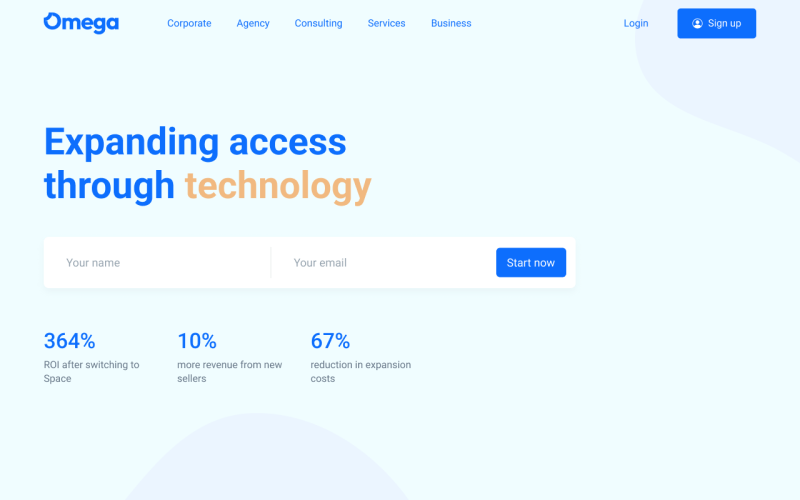
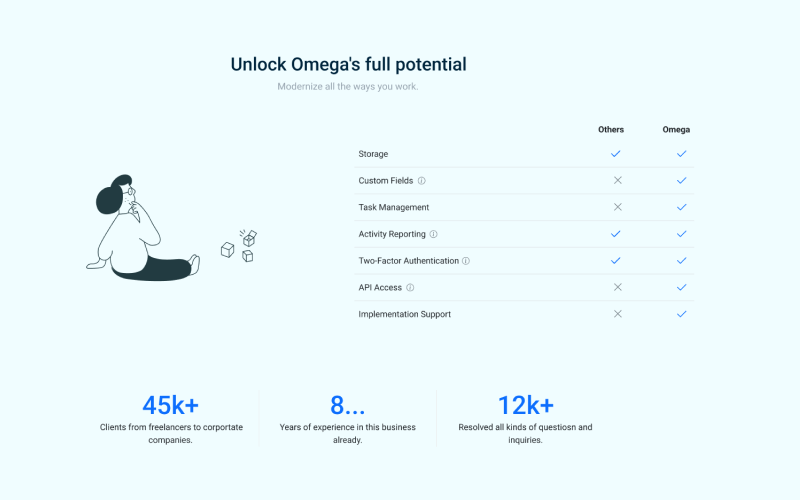
Copywrite, images, and code fixes

diff --git a/src/pages/Corporate.js b/src/pages/Corporate.js
@@ -3,6 +3,7 @@ import { HeaderLight } from '../components/Header';
 import { JoinCard, AccordionCard } from '../components/Cards';
 import { FeaturesTabs } from '../components/NavTabs';
 import { FeaturesTable } from '../components/Tables';
+import { Reviews } from '../components/Reviews';
 
 function Corporate() {
     return(
@@ -15,15 +16,15 @@ function Corporate() {
                         <div className="row justify-content-center align-items-lg-center">
                             <div className="col-md-8 col-lg-6 mb-7 mb-lg-0">
                                 <div className="pe-lg-3 mb-5">
-                                    <h1 className="fw-600 text-white mb-2 mb-md-3">Helping startups find solutions.</h1>
+                                    <h1 className="fw-600 text-white mb-2 mb-md-3">We help bring your business to the audience.</h1>
 
                                     <p className="text-lg text-gray-300">
-                                        Built on standard web technology, teams use Omega to build responsive web applications in record time.
+                                        At Omega, we are dedicated to help businesses scale by using our indepth market research and analysis.
                                     </p>
                                 </div>
 
                                 <div className="row">
-                                    <div className="col-sm-6 mb-3 mb-sm-0">
+                                    <div className="col-sm-4 mb-3 mb-sm-0">
                                         <div className="d-flex align-items-center">
                                             <div className="flex-shrink-0">
                                                 <span className="svg-icon text-white">
@@ -41,7 +42,7 @@ function Corporate() {
                                         </div>
                                     </div>
 
-                                    <div className="col-sm-6">
+                                    <div className="col-sm-4">
                                         <div className="d-flex align-items-center">
                                             <div className="flex-shrink-0">
                                                 <span className="svg-icon text-white">
@@ -53,8 +54,26 @@ function Corporate() {
                                             </div>
 
                                             <div className="flex-grow-1 ms-4">
-                                                <h6 className="text-white mb-0">92%</h6>
+                                                <h6 className="text-white mb-0">99%</h6>
                                                 <p className="text-gray-300">Satisfaction rate</p>
+                                            </div>
+                                        </div>
+                                    </div>
+
+                                    <div className="col-sm-4">
+                                        <div className="d-flex align-items-center">
+                                            <div className="flex-shrink-0">
+                                                <span className="svg-icon text-white">
+                                                    <svg width="50" height="50" viewBox="0 0 24 24" fill="none" xmlns="http://www.w3.org/2000/svg">
+                                                        <path d="M15.43 8.56949L10.744 15.1395C10.6422 15.282 10.5804 15.4492 10.5651 15.6236C10.5498 15.7981 10.5815 15.9734 10.657 16.1315L13.194 21.4425C13.2737 21.6097 13.3991 21.751 13.5557 21.8499C13.7123 21.9488 13.8938 22.0014 14.079 22.0015H14.117C14.3087 21.9941 14.4941 21.9307 14.6502 21.8191C14.8062 21.7075 14.9261 21.5526 14.995 21.3735L21.933 3.33649C22.0011 3.15918 22.0164 2.96594 21.977 2.78013C21.9376 2.59432 21.8452 2.4239 21.711 2.28949L15.43 8.56949Z" fill="#FFFFFF" />
+                                                        <path opacity="0.3" d="M20.664 2.06648L2.62602 9.00148C2.44768 9.07085 2.29348 9.19082 2.1824 9.34663C2.07131 9.50244 2.00818 9.68731 2.00074 9.87853C1.99331 10.0697 2.04189 10.259 2.14054 10.4229C2.23919 10.5869 2.38359 10.7185 2.55601 10.8015L7.86601 13.3365C8.02383 13.4126 8.19925 13.4448 8.37382 13.4297C8.54839 13.4145 8.71565 13.3526 8.85801 13.2505L15.43 8.56548L21.711 2.28448C21.5762 2.15096 21.4055 2.05932 21.2198 2.02064C21.034 1.98196 20.8409 1.99788 20.664 2.06648V2.06648Z" fill="#FFFFFF" />
+                                                    </svg>
+                                                </span>
+                                            </div>
+
+                                            <div className="flex-grow-1 ms-4">
+                                                <h6 className="text-white mb-0">On-demand</h6>
+                                                <p className="text-gray-300">Data analytics</p>
                                             </div>
                                         </div>
                                     </div>
@@ -70,58 +89,16 @@ function Corporate() {
                         <div className="my-90 border-top border-white-10"></div>
 
                         <div className="row">
-                            <div className="col-sm mb-5 mb-sm-0">
-                                <div className="d-flex gap-1 mb-2">
-                                    <i className="bi bi-star-fill text-warning"></i>
-                                    <i className="bi bi-star-fill text-warning"></i>
-                                    <i className="bi bi-star-fill text-warning"></i>
-                                    <i className="bi bi-star-fill text-warning"></i>
-                                    <i className="bi bi-star-half text-warning"></i>
-                                </div>
+                            <Reviews.Header.AirBnb />
 
-                                <blockquote className="blockquote blockquote-sm text-white mb-4">
-                                    <i className="bi bi-quote superscript"></i> This is a beautiful template with exciting components. <i className="bi bi-quote superscript flip-180"></i>
-                                </blockquote>
+                            <Reviews.Header.Amazon />
 
-                                <img className="" src="https://htmlstream.com/preview/space-v2.3.1/assets/svg/brands/airbnb-white-50.svg" alt="Company" />
-                            </div>
-
-                            <div className="col-sm mb-5 mb-sm-0">
-                                <div className="d-flex gap-1 mb-2">
-                                    <i className="bi bi-star-fill text-warning"></i>
-                                    <i className="bi bi-star-fill text-warning"></i>
-                                    <i className="bi bi-star-fill text-warning"></i>
-                                    <i className="bi bi-star-fill text-warning"></i>
-                                    <i className="bi bi-star-fill text-warning"></i>
-                                </div>
-
-                                <blockquote className="blockquote blockquote-sm text-white mb-4">
-                                    <i className="bi bi-quote superscript"></i> This is a beautiful template with exciting components. <i className="bi bi-quote superscript flip-180"></i>
-                                </blockquote>
-
-                                <img className="" src="https://htmlstream.com/preview/space-v2.3.1/assets/svg/brands/amazon-white-50.svg" alt="Company" />
-                            </div>
-
-                            <div className="col-sm mb-5 mb-sm-0">
-                                <div className="d-flex gap-1 mb-2">
-                                    <i className="bi bi-star-fill text-warning"></i>
-                                    <i className="bi bi-star-fill text-warning"></i>
-                                    <i className="bi bi-star-fill text-warning"></i>
-                                    <i className="bi bi-star-fill text-warning"></i>
-                                    <i className="bi bi-star-half text-warning"></i>
-                                </div>
-
-                                <blockquote className="blockquote blockquote-sm text-white mb-4">
-                                    <i className="bi bi-quote superscript"></i> This is a beautiful template with exciting components. <i className="bi bi-quote superscript flip-180"></i>
-                                </blockquote>
-
-                                <img className="" src="https://htmlstream.com/preview/space-v2.3.1/assets/svg/brands/google-white-50.svg" alt="Company" />
-                            </div>
+                            <Reviews.Header.Google />
                         </div>
                     </div>
                 </section>
 
-                <section className="features-section">
+                <section className="features-section bg-white">
                     <div className="container">
                         <div className="w-lg-65 mx-lg-auto mb-5 text-center">
                             <h3 className="mb-2">Take the best path forward</h3>
@@ -134,11 +111,11 @@ function Corporate() {
                     </div>
                 </section>
 
-                <section className="features-cont">
+                <section className="features-cont bg-white">
                     <div className="position-relative mb-5">
                         <div className="container">
                             <div className="row justify-content-end align-items-md-center">
-                                <div className="d-none d-md-block col-md-6 position-absolute top-0 start-0 bg-img-cover-center h-100" style={{backgroundImage: "url('https://htmlstream.com/preview/space-v2.3.1/assets/img/900x700/img7.jpg')"}}></div>
+                                <div className="d-none d-md-block col-md-6 position-absolute top-0 start-0 bg-img-cover-center h-100" style={{backgroundImage: "url('https://images.unsplash.com/photo-1556761175-b413da4baf72?ixlib=rb-4.0.3&ixid=MnwxMjA3fDB8MHxwaG90by1wYWdlfHx8fGVufDB8fHx8&auto=format&fit=crop&w=1074&q=80')"}}></div>
                                 <div className="d-md-none mb-5 mb-md-0">
                                     <img className="img-fluid" src="https://htmlstream.com/preview/space-v2.3.1/assets/img/900x700/img7.jpg" alt="Agency" />
                                 </div>
@@ -283,22 +260,22 @@ function Corporate() {
                             <div className="row col-sm-divider">
                                 <div className="col-sm-4 px-4 px-xs-0">
                                     <div className="text-center">
-                                        <h3 className="text-primary heading-3">45k+</h3>
-                                        <p className="mb-0">Clients from freelancers to corportate companies.</p>
+                                        <h3 className="text-primary heading-3">100+</h3>
+                                        <p className="mb-0">Templates developed, analyzed, and successfully launched.</p>
                                     </div>
                                 </div>
 
                                 <div className="col-sm-4 px-4 px-xs-0">
                                     <div className="text-center">
-                                        <h3 className="text-primary heading-3">8...</h3>
-                                        <p className="mb-0">Years of experience in this business already.</p>
+                                        <h3 className="text-primary heading-3">...4</h3>
+                                        <p className="mb-0">Years of experience and counting of helping businesses scale and grow.</p>
                                     </div>
                                 </div>
 
                                 <div className="col-sm-4 px-4 px-xs-0">
                                     <div className="text-center">
-                                        <h3 className="text-primary heading-3">12k+</h3>
-                                        <p className="mb-0">Resolved all kinds of questiosn and inquiries.</p>
+                                        <h3 className="text-primary heading-3">11k+</h3>
+                                        <p className="mb-0">Questions, inquiries, and client worries taken care of so far.</p>
                                     </div>
                                 </div>
                             </div>
@@ -306,7 +283,7 @@ function Corporate() {
                     </div>
                 </section>
 
-                <section className="">
+                <section className="faq-section">
                     <div className="container">
                         <div className="w-lg-65 mx-lg-auto mb-5 text-center">
                             <h3 className="mb-2">All about Omega</h3>

diff --git a/src/components/Reviews.js b/src/components/Reviews.js
@@ -1,0 +1,61 @@
+export const Reviews = {
+    'Header': {
+        'AirBnb': function Airbnb() {
+            return (
+                <div className="col-sm mb-5 mb-sm-0">
+                    <div className="d-flex gap-1 mb-2">
+                        <i className="bi bi-star-fill text-warning"></i>
+                        <i className="bi bi-star-fill text-warning"></i>
+                        <i className="bi bi-star-fill text-warning"></i>
+                        <i className="bi bi-star-fill text-warning"></i>
+                        <i className="bi bi-star-half text-warning"></i>
+                    </div>
+
+                    <blockquote className="blockquote blockquote-sm text-white mb-4">
+                        <i className="bi bi-quote superscript"></i> Thanks to Omega, our brand reach skyrocketed instantly. <i className="bi bi-quote superscript flip-180"></i>
+                    </blockquote>
+
+                    <img className="" src="https://htmlstream.com/preview/space-v2.3.1/assets/svg/brands/airbnb-white-50.svg" alt="Company" />
+                </div>
+            );
+        },
+        'Amazon': function Airbnb() {
+            return (
+                <div className="col-sm mb-5 mb-sm-0">
+                    <div className="d-flex gap-1 mb-2">
+                        <i className="bi bi-star-fill text-warning"></i>
+                        <i className="bi bi-star-fill text-warning"></i>
+                        <i className="bi bi-star-fill text-warning"></i>
+                        <i className="bi bi-star-fill text-warning"></i>
+                        <i className="bi bi-star-fill text-warning"></i>
+                    </div>
+
+                    <blockquote className="blockquote blockquote-sm text-white mb-4">
+                        <i className="bi bi-quote superscript"></i> Omega boosted our sales tremendously, they are phenomenal. <i className="bi bi-quote superscript flip-180"></i>
+                    </blockquote>
+
+                    <img className="" src="https://htmlstream.com/preview/space-v2.3.1/assets/svg/brands/amazon-white-50.svg" alt="Company" />
+                </div>
+            );
+        },
+        'Google': function Amazon() {
+            return(
+                <div className="col-sm mb-5 mb-sm-0">
+                    <div className="d-flex gap-1 mb-2">
+                        <i className="bi bi-star-fill text-warning"></i>
+                        <i className="bi bi-star-fill text-warning"></i>
+                        <i className="bi bi-star-fill text-warning"></i>
+                        <i className="bi bi-star-fill text-warning"></i>
+                        <i className="bi bi-star-half text-warning"></i>
+                    </div>
+
+                    <blockquote className="blockquote blockquote-sm text-white mb-4">
+                        <i className="bi bi-quote superscript"></i> Scaling up was a breeze thanks to Omega and their many tools. <i className="bi bi-quote superscript flip-180"></i>
+                    </blockquote>
+
+                    <img className="" src="https://htmlstream.com/preview/space-v2.3.1/assets/svg/brands/google-white-50.svg" alt="Company" />
+                </div>
+            );
+        }
+    }
+}

diff --git a/src/components/Forms.js b/src/components/Forms.js
@@ -3,9 +3,19 @@ import { Link } from 'react-router-dom';
 export function JoinForm() {
     return(
         <form id="joinForm" className="form">
-            <div className="mb-4">
-                <label htmlFor="name" className="form-label">Your name</label>
-                <input className="form-control form-control-lg" type="text" name="name" id="name" placeholder="Enter your name" aria-label="Enter your name" required data-msg="Please enter your name" />
+            <div className="row">
+                <div className="col-sm-6">
+                    <div className="mb-4">
+                        <label htmlFor="name" className="form-label">First name</label>
+                        <input className="form-control form-control-lg" type="text" name="name" id="name" placeholder="John" aria-label="Enter your name" required data-msg="Please enter your name" />
+                    </div>
+                </div>
+                <div className="col-sm-6">
+                    <div className="mb-4">
+                        <label htmlFor="name" className="form-label">Last name</label>
+                        <input className="form-control form-control-lg" type="text" name="name" id="name" placeholder="Doe" aria-label="Enter your name" required data-msg="Please enter your name" />
+                    </div>
+                </div>
             </div>
 
             <div className="mb-4">

diff --git a/src/components/Cards.js b/src/components/Cards.js
@@ -13,7 +13,7 @@ export function JoinCard() {
 
                     <div className="col-sm">
                         <h5 className="card-title">Join Omega</h5>
-                        <p className="card-text">Hundreds of companies are using Omega to get their brands running.</p>
+                        <p className="card-text">Many companies are using Omega to get their brands at the forefront.</p>
                     </div>
                 </div>
 

diff --git a/src/sass/3-components/_accordions.scss b/src/sass/3-components/_accordions.scss
@@ -22,6 +22,12 @@
                 }
             }
         }
+        .accordion-collapse {
+            .accordion-body {
+                padding-left: 32px;
+                padding-right: 32px;
+            }
+        }
         &:first-child {
             border-top: 0;
         }

diff --git a/src/sass/2-base/_backgrounds.scss b/src/sass/2-base/_backgrounds.scss
@@ -4,3 +4,6 @@
 .bg-primary-dark {
     background: $oxford!important;
 }
+.bg-white {
+    background-color: $white!important;
+}

diff --git a/CHANGELOG.md b/CHANGELOG.md
@@ -7,6 +7,26 @@ and this project adheres to [Semantic Versioning](https://semver.org/spec/v2.0.0
 
 ## [Unreleased]
 
+## [1.2.0] - 2023/04/21
+
+### Added
+
+- New images under the NavTabs section of the corporate landing page.
+- Additional column in the header company features section.
+- `.bg-white` definition in the `_backgrounds.scss` file.
+  - Applied it across various sections of the corporate landing page.
+
+### Changed
+
+- Moved the reviews in the header to a dedicated `<Reviews.js>` file under the components subdirectory.
+- `className` declaration in the FAQ section of the corporate landing page code.
+
+### Fixed
+
+- Copywriting of the corporate landing page.
+- Header form of the corporate landing page.
+- Padding on the FAQ accordion body areas.
+
 ## [1.1.1] - 2023/04/20
 
 ### Added
@@ -85,7 +105,8 @@ as a temporary handler.
 - Installed and configured `<gh-pages>`.
 - This CHANGELOG file to track the evolution of the project source code.
 
-[unreleased]: https://github.com/ogre2/Omega//compare/v1.1.1...HEAD
+[unreleased]: https://github.com/ogre2/Omega//compare/v1.2.0...HEAD
+[1.2.0]: https://github.com/ogre2/Omega/compare/v1.1.0...v1.2.0
 [1.1.1]: https://github.com/ogre2/Omega/compare/v1.1.0...v1.1.1
 [1.1.0]: https://github.com/ogre2/Omega/compare/v1.0.4...v1.1.0
 [1.0.4]: https://github.com/ogre2/Omega/compare/v1.0.3...v1.0.4
